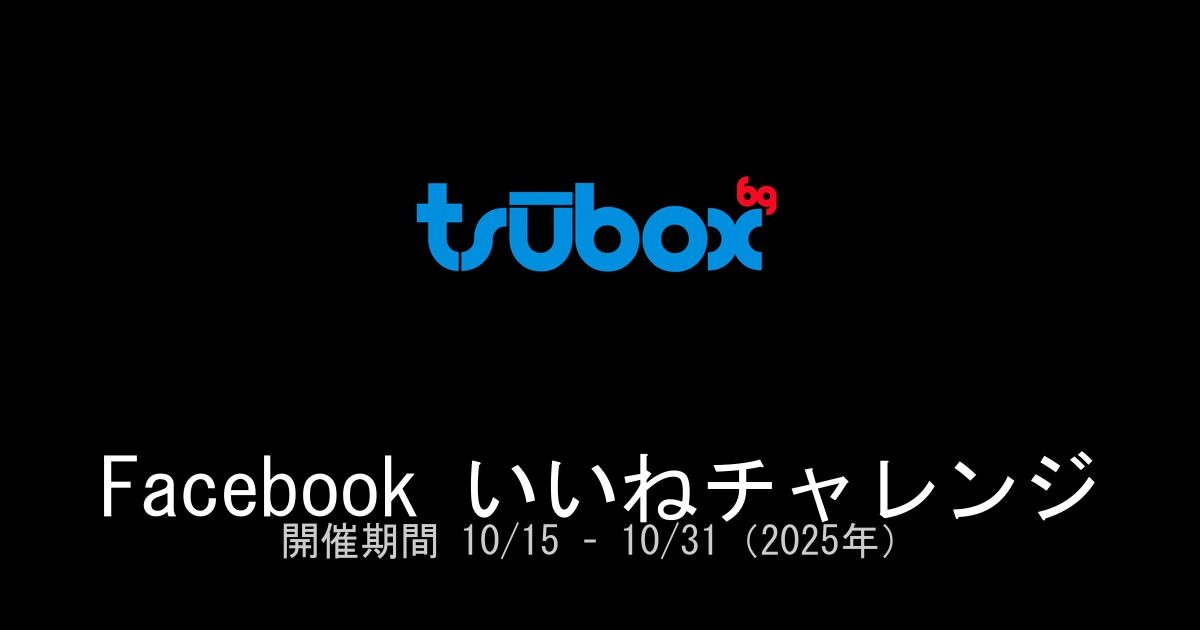
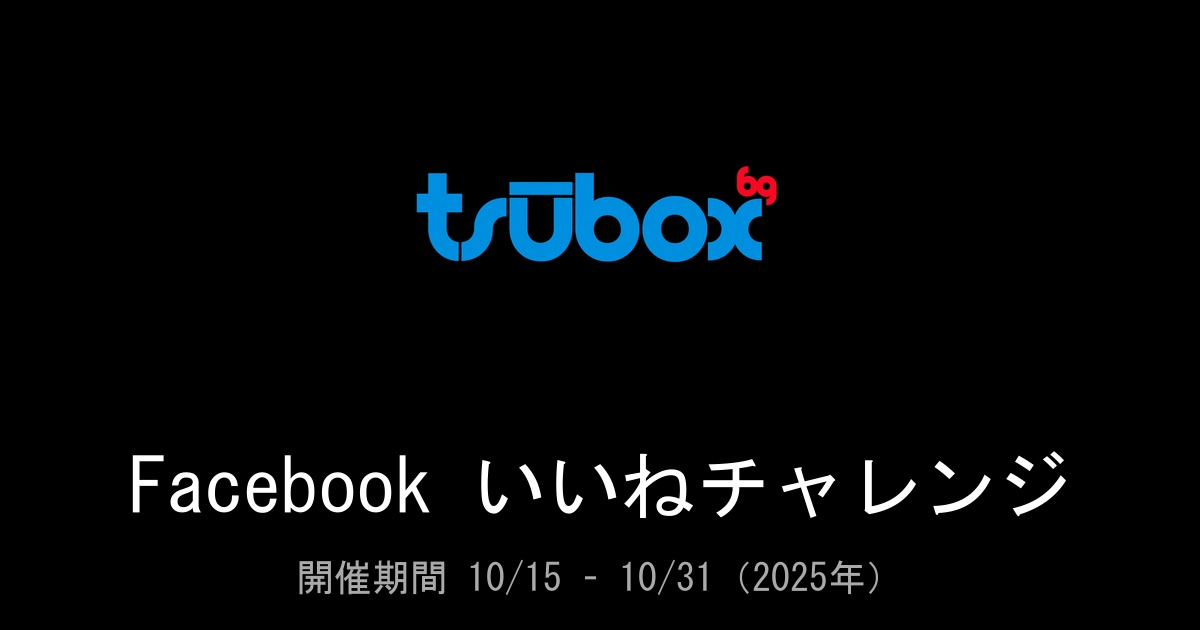
Improve text spacing in OGP images for better readability
- Increased spacing between title and date text (110px gap)
- Reduced font sizes slightly for better balance
- Both Facebook (v=11) and LINE (v=7) versions updated

🤖 Generated with [Claude Code](https://claude.com/claude-code)

Changed region(s): [[0.0617, 0.7238, 0.925, 0.9651], [0.3392, 0.2714, 0.6475, 0.4524]]

diff --git a/index.html b/index.html
@@ -14,21 +14,21 @@
     <meta property="og:description" content="開催期間 10/15 – 10/31。昨日のトップ3を掲載。" />
     <meta property="og:url" content="https://daiki-ike.github.io/tsubox-event/" />
     <!-- OGP: Facebook用横長画像（1200x630）を優先 -->
-    <meta property="og:image" content="https://daiki-ike.github.io/tsubox-event/assets/ogp-facebook.jpg?v=10" />
-    <meta property="og:image:secure_url" content="https://daiki-ike.github.io/tsubox-event/assets/ogp-facebook.jpg?v=10" />
+    <meta property="og:image" content="https://daiki-ike.github.io/tsubox-event/assets/ogp-facebook.jpg?v=11" />
+    <meta property="og:image:secure_url" content="https://daiki-ike.github.io/tsubox-event/assets/ogp-facebook.jpg?v=11" />
     <meta property="og:image:width" content="1200" />
     <meta property="og:image:height" content="630" />
     <meta property="og:image:alt" content="有限会社ツーボックス Facebook いいねチャレンジ" />
     <!-- OGP: LINE用正方形画像（1200x1200）をセカンダリとして追加 -->
-    <meta property="og:image" content="https://daiki-ike.github.io/tsubox-event/assets/ogp-line.jpg?v=6" />
-    <meta property="og:image:secure_url" content="https://daiki-ike.github.io/tsubox-event/assets/ogp-line.jpg?v=6" />
+    <meta property="og:image" content="https://daiki-ike.github.io/tsubox-event/assets/ogp-line.jpg?v=7" />
+    <meta property="og:image:secure_url" content="https://daiki-ike.github.io/tsubox-event/assets/ogp-line.jpg?v=7" />
     <meta property="og:image:width" content="1200" />
     <meta property="og:image:height" content="1200" />
     <meta property="og:image:alt" content="有限会社ツーボックス Facebook いいねチャレンジ" />
     <meta name="twitter:card" content="summary_large_image" />
     <meta name="twitter:title" content="有限会社ツーボックス｜Facebook いいねチャレンジ" />
     <meta name="twitter:description" content="開催期間 10/15 – 10/31。昨日のトップ3を掲載。" />
-    <meta name="twitter:image" content="https://daiki-ike.github.io/tsubox-event/assets/ogp-facebook.jpg?v=10" />
+    <meta name="twitter:image" content="https://daiki-ike.github.io/tsubox-event/assets/ogp-facebook.jpg?v=11" />
 
     <link rel="icon" href="assets/logo.png" />
     <link rel="stylesheet" href="styles.css" />

diff --git a/line.html b/line.html
@@ -11,8 +11,8 @@
     <meta property="og:description" content="開催期間 10/15 – 10/31。昨日のトップ3を掲載。" />
     <meta property="og:url" content="https://daiki-ike.github.io/tsubox-event/line.html" />
     <!-- LINE は正方形を好むため、正方形画像を指定 -->
-    <meta property="og:image" content="https://daiki-ike.github.io/tsubox-event/assets/ogp-line.jpg?v=6" />
-    <meta property="og:image:secure_url" content="https://daiki-ike.github.io/tsubox-event/assets/ogp-line.jpg?v=6" />
+    <meta property="og:image" content="https://daiki-ike.github.io/tsubox-event/assets/ogp-line.jpg?v=7" />
+    <meta property="og:image:secure_url" content="https://daiki-ike.github.io/tsubox-event/assets/ogp-line.jpg?v=7" />
     <meta property="og:image:width" content="1200" />
     <meta property="og:image:height" content="1200" />
     <meta name="twitter:card" content="summary" />
